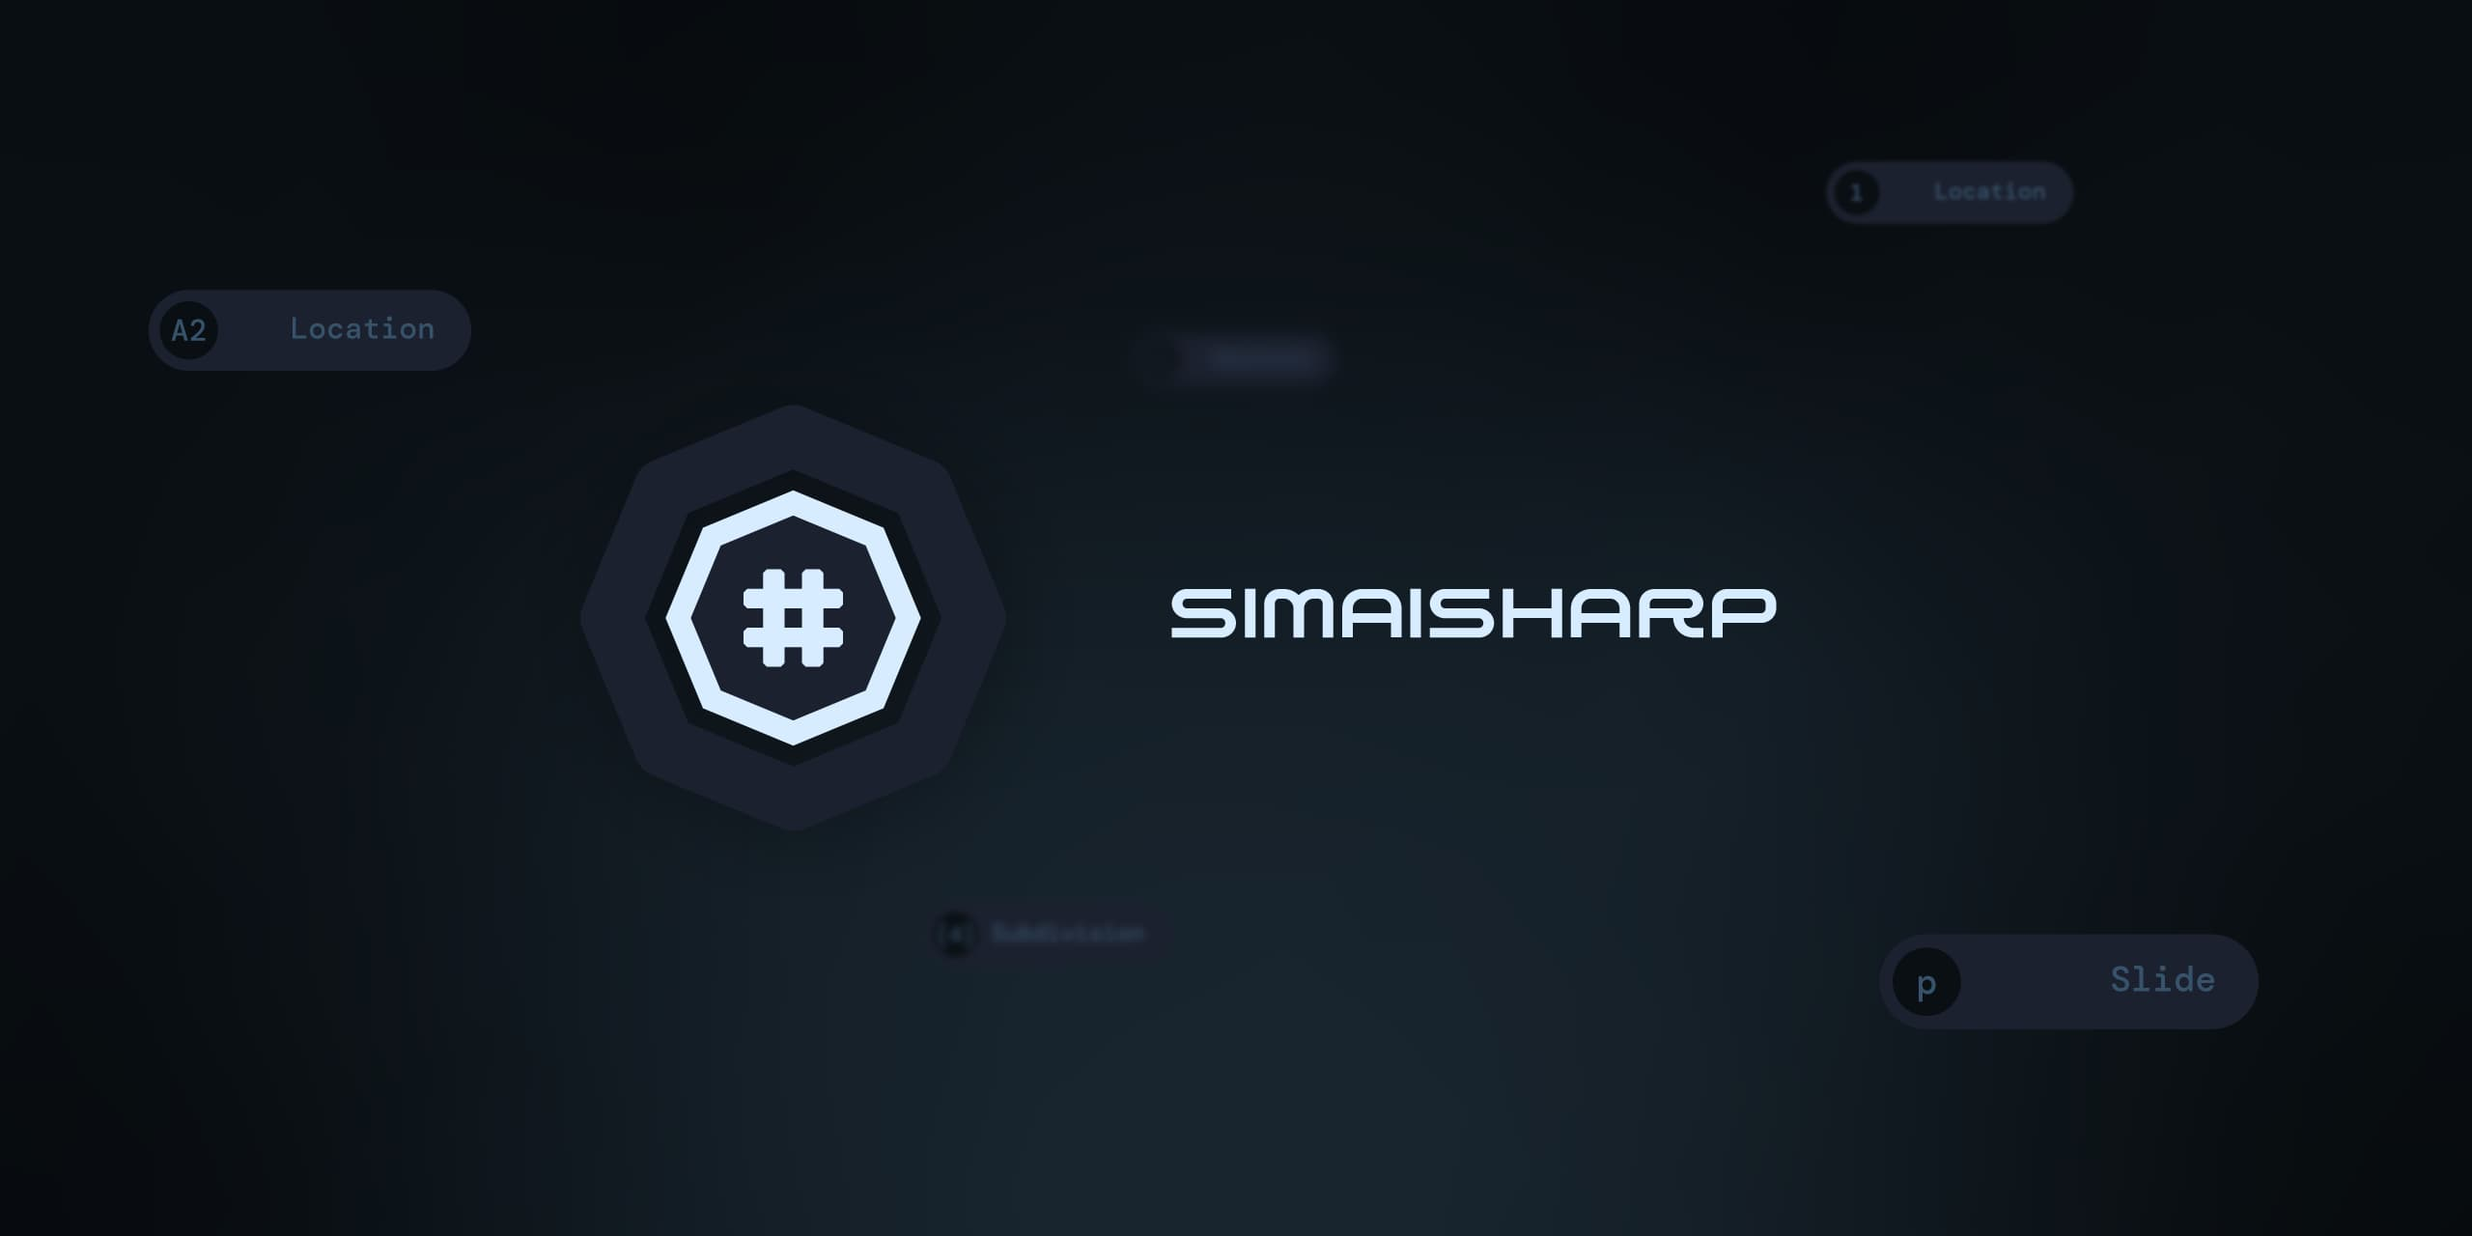
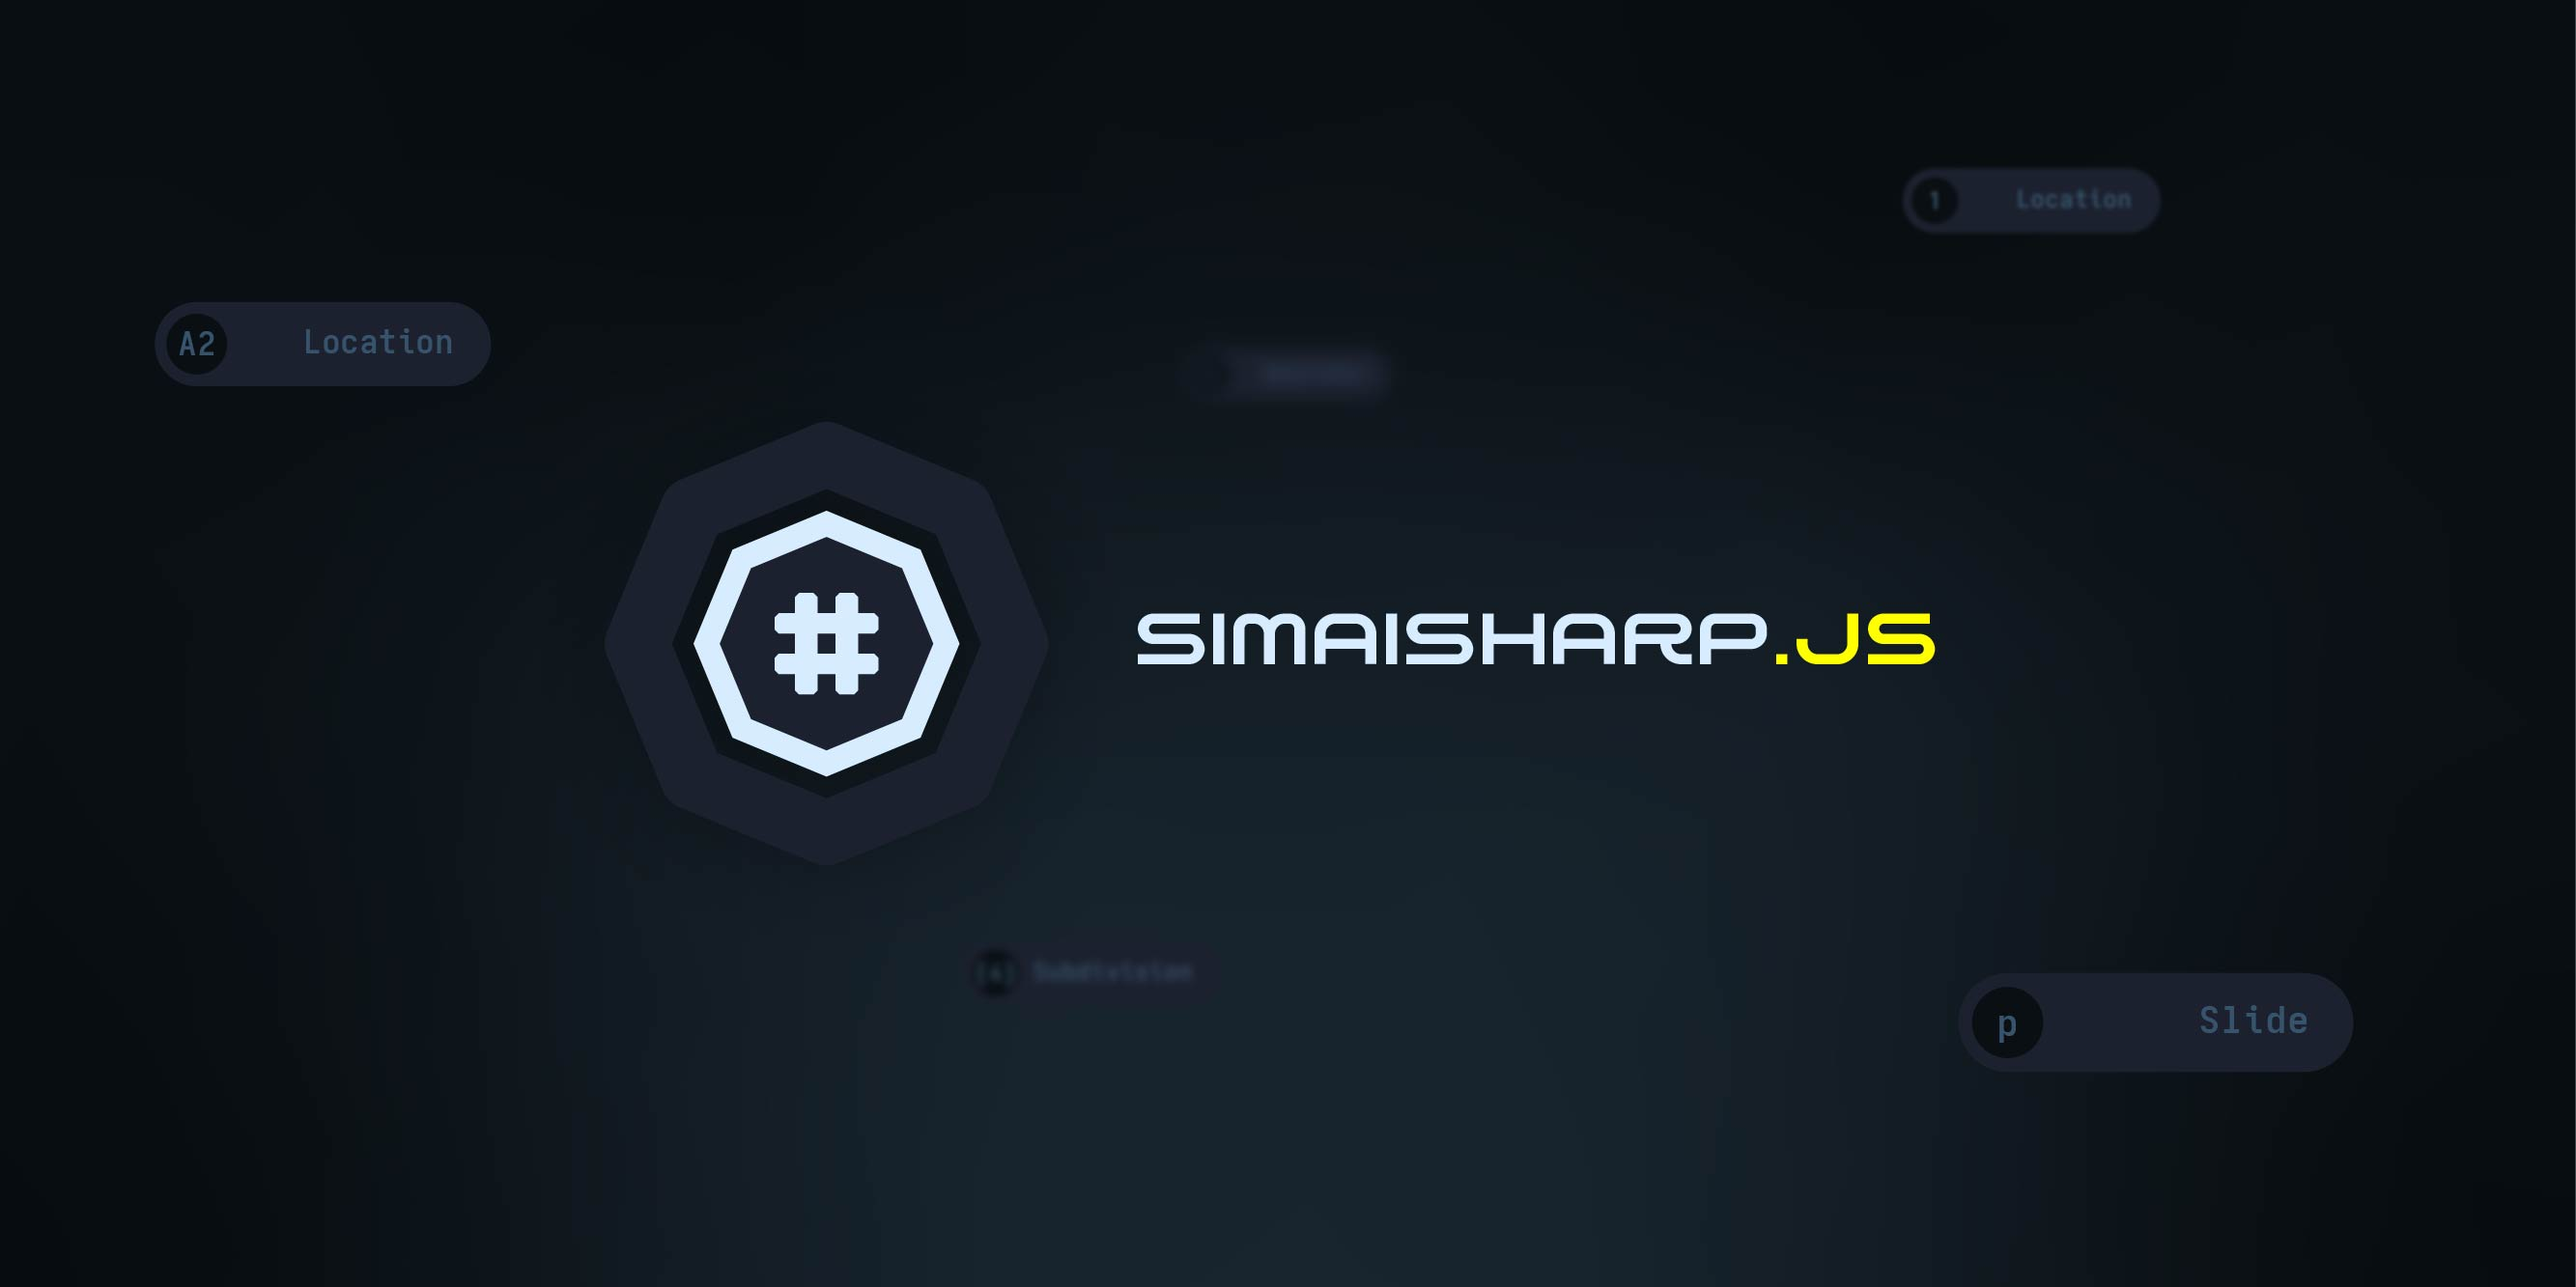
feat: update readme and fix typo

Changed region(s): [[0.4375, 0.4688, 0.75, 0.5312]]

diff --git a/tests/chartTests.ts b/tests/chartTests.ts
@@ -67,7 +67,7 @@ describe("SimaiConvert", () => {
         assert(chart.noteCollections[0][7].location.equals(new Location(7, NoteGroup.Tap)));
     });
 
-    it("should be able to read a chart's tempo with defualt subdivision", async () => {
+    it("should be able to read a chart's tempo with default subdivision", async () => {
         const chartText = await fs.readFile(
             path.join(testChartPath, "./CanReadTempoWithDefaultSubdivisions.txt"),
             "utf-8"
@@ -80,7 +80,7 @@ describe("SimaiConvert", () => {
         assert(chart.noteCollections[1].time === 1);
     });
 
-    it("should be able to read a chart's tempo changes with defualt subdivision", async () => {
+    it("should be able to read a chart's tempo changes with default subdivision", async () => {
         const chartText = await fs.readFile(
             path.join(testChartPath, "./CanReadTempoChangesWithDefaultSubdivisions.txt"),
             "utf-8"

diff --git a/README.md b/README.md
@@ -4,34 +4,29 @@
 
 # simaisharp.js
 
-simaisharp.js is an interpreter and serializer for [simai](https://w.atwiki.jp/simai/), 
+simaisharp.js is an interpreter and serializer for [simai](https://w.atwiki.jp/simai/),
 a custom chart format for the arcade rhythm game [maimai](https://maimai.sega.jp/),
 written in [Typescript](https://www.typescriptlang.org/).
 
 # Getting Started
 
-To use simaisharp.js in your own project, 
+To use simaisharp.js in your own project,
 
 Then, use the following method to deserialize a chart:
 
-<!--
 ```typescript
-// Specify the chart file
-var filePath = "Z:\path\to\your\chart.txt";
-
 // Read it into your program
-var simaiFile = new SimaiFile(filePath);
+const simaiFile = new SimaiFile(chartContent);
 
 // Specify a key to read, without the "&"
-var chartKey = "inote_5";
+const chartKey = "inote_5";
 
 // Get the corresponding value as a string
-var rawChart = simaiFile.getValue(chartKey);
+const rawChart = simaiFile.getValue(chartKey);
 
 // Deserialize the chart
-var chart = SimaiConvert.deserialize(rawChart);
+const chart = SimaiConvert.deserialize(rawChart);
 ```
--->
 
 # Contribute
 
